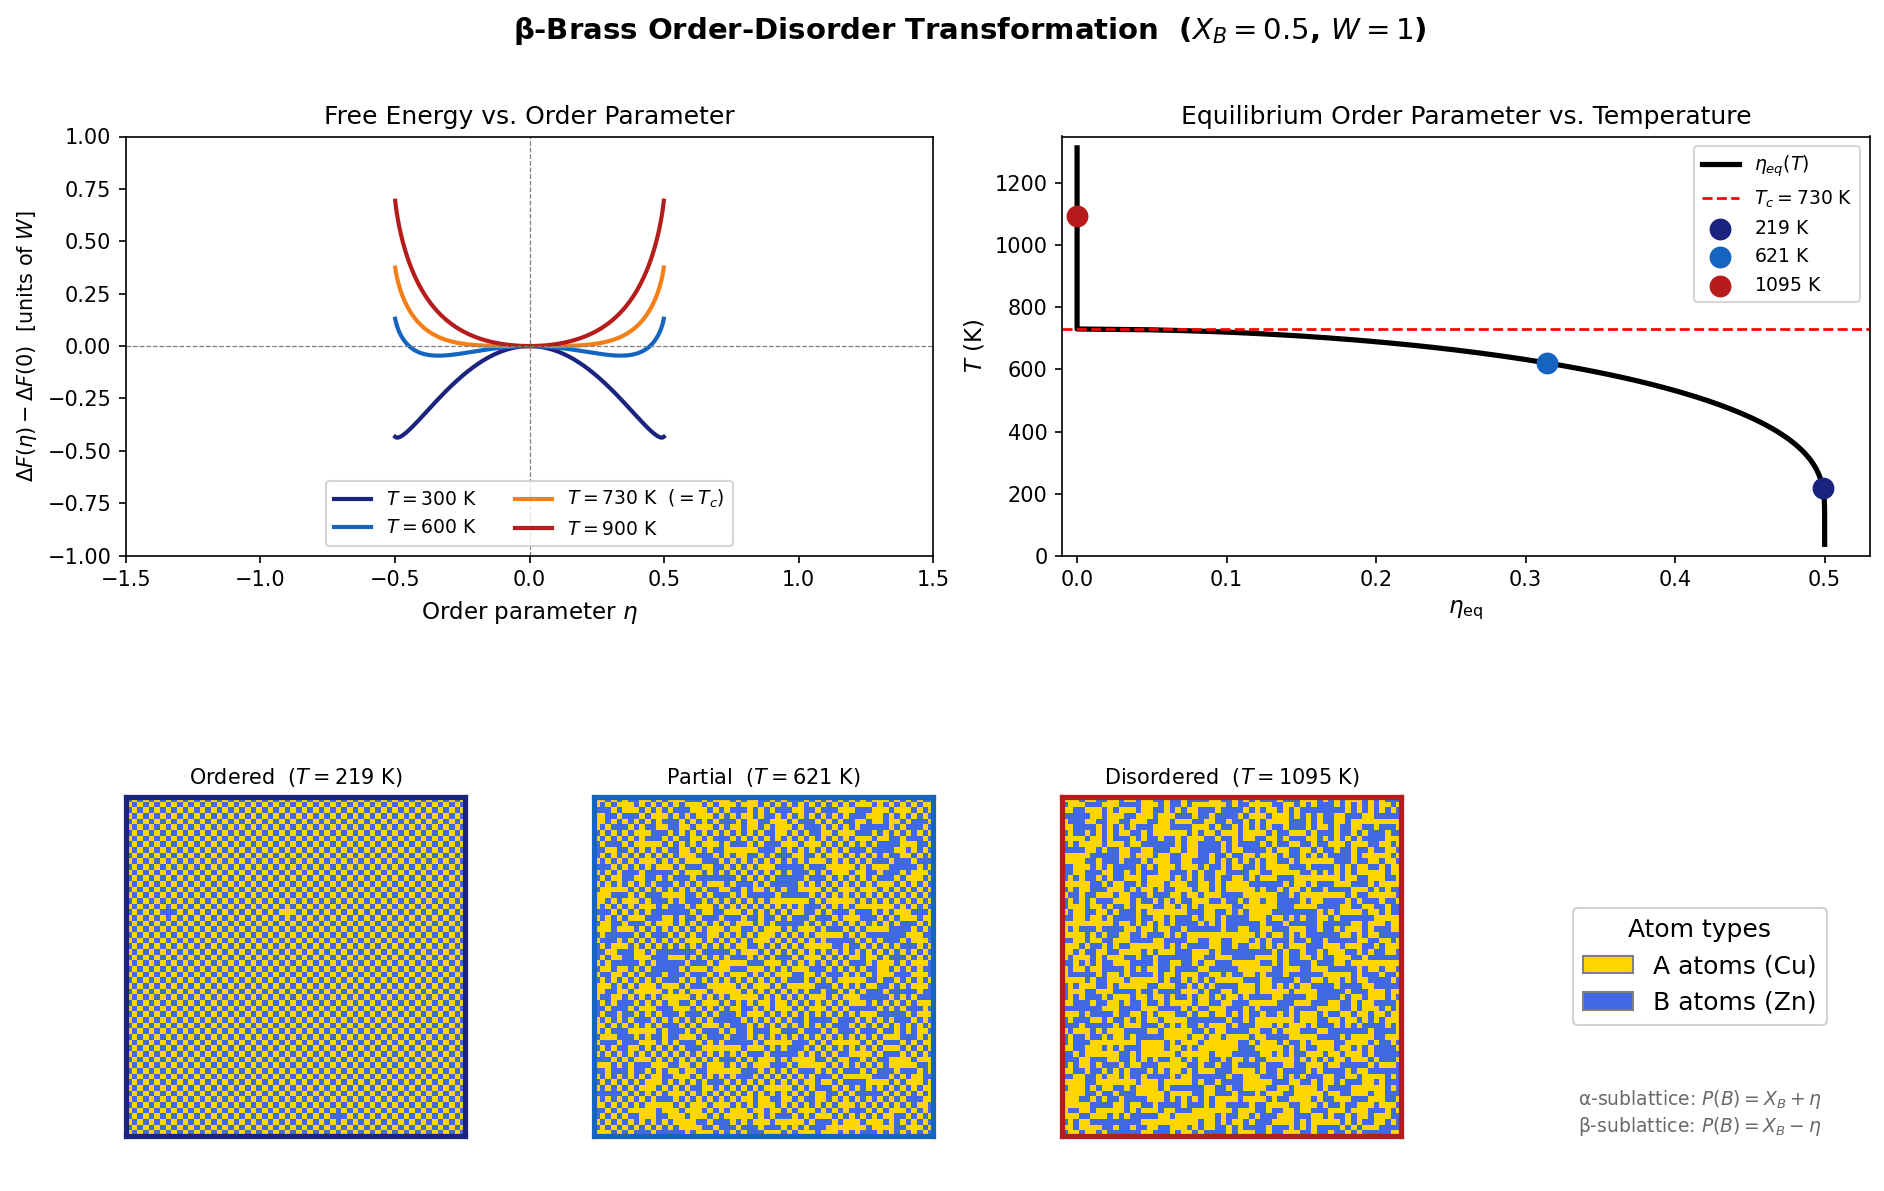
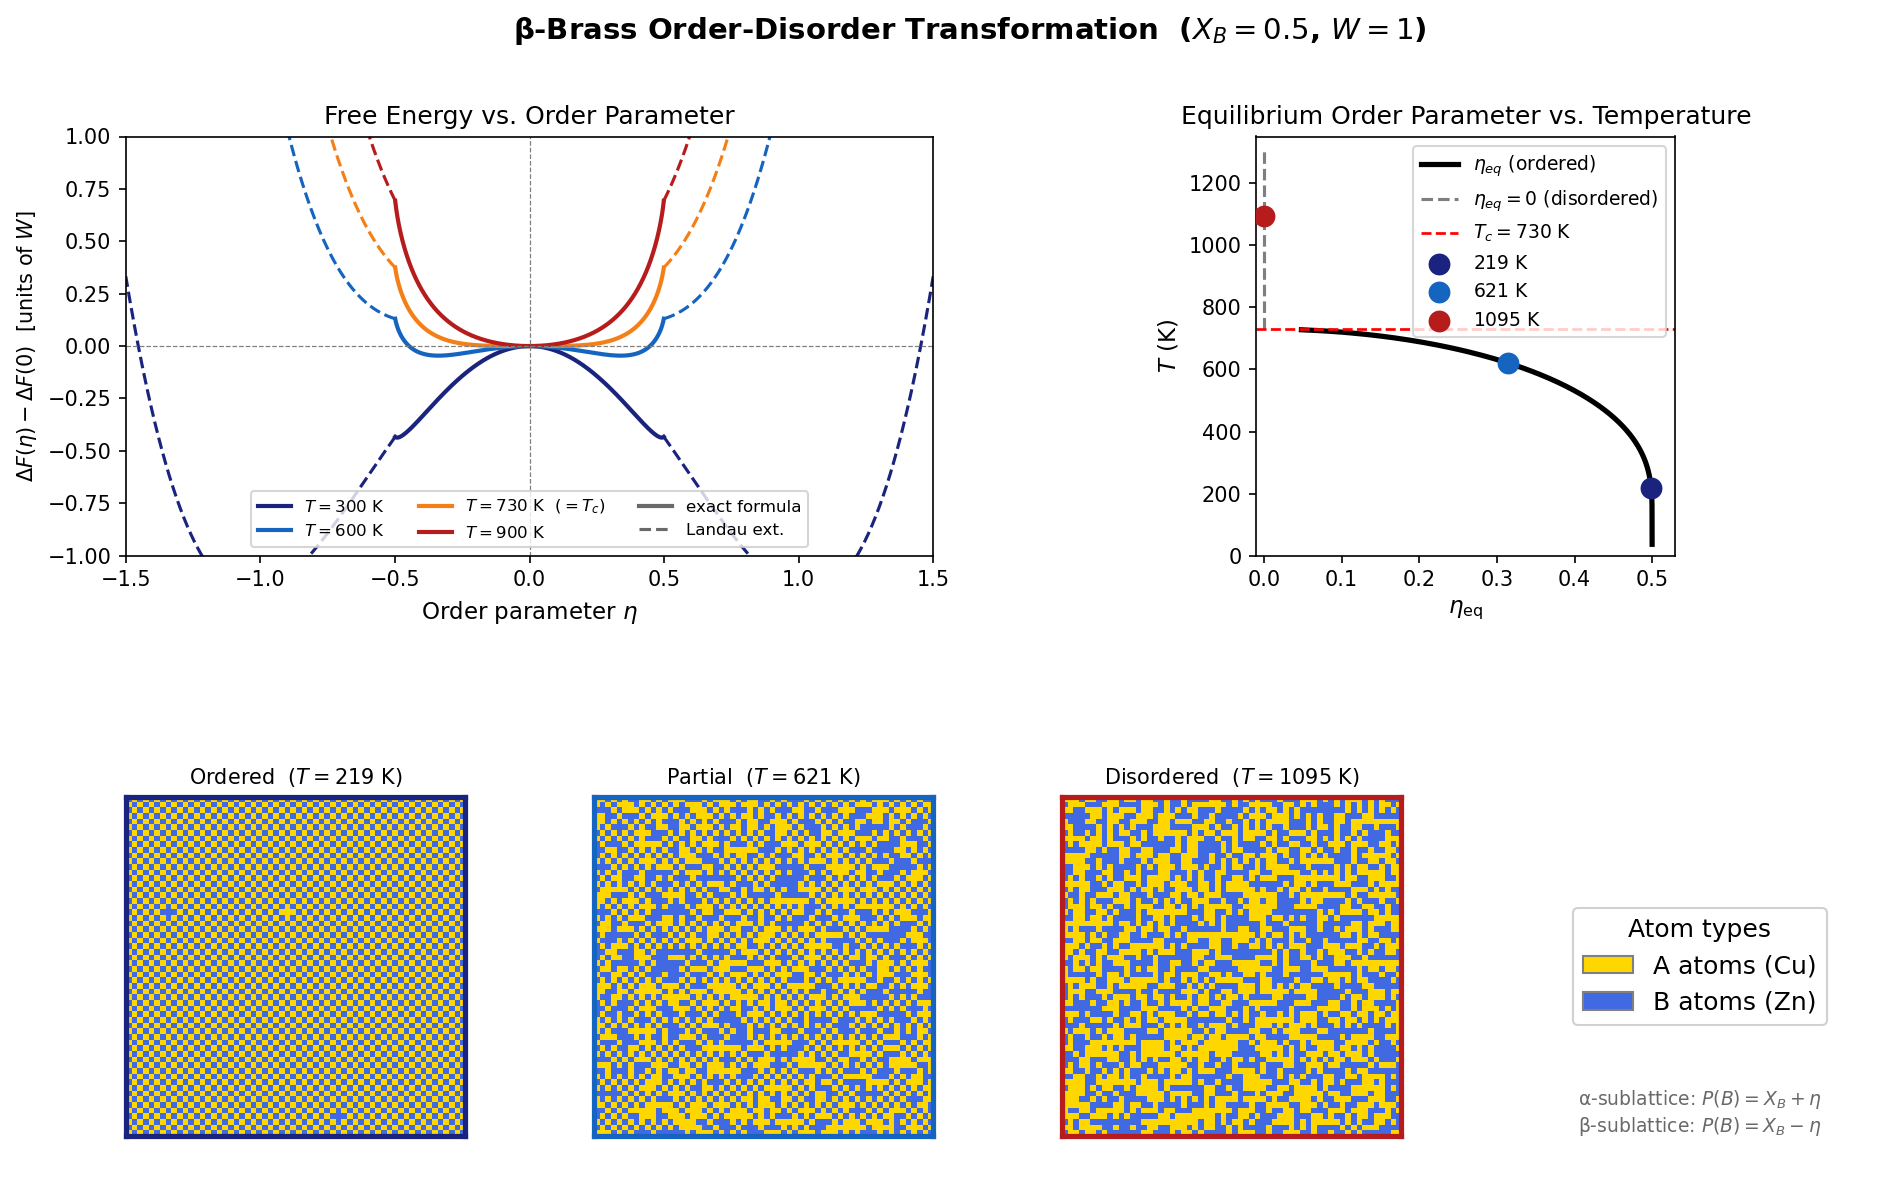
Add Landau extension to F(η) plot; clean up η_eq panel
- Panel 1: add 4th-order Landau continuation (dashed) beyond the physical
  |η|=0.5 boundary, offset to be continuous at the junction; this reveals
  the outer W humps that are inaccessible via the exact log formula
- Panel 2: separate ordered branch (solid) from disordered branch (dashed
  at η=0 for T>T_c); add set_box_aspect(1) to make the plot square
- Move Line2D import to top of file

diff --git a/order_disorder.py b/order_disorder.py
@@ -15,6 +15,7 @@ import numpy as np
 import matplotlib.pyplot as plt
 import matplotlib.gridspec as gridspec
 from matplotlib.colors import ListedColormap
+from matplotlib.lines import Line2D
 from matplotlib.patches import Patch
 from scipy.optimize import minimize_scalar
 
@@ -45,6 +46,14 @@ def eta_equilibrium(T):
     res = minimize_scalar(delta_F, bounds=(0.0, bound), method='bounded', args=(T,))
     # Accept ordered state only if it genuinely beats the disordered state
     return float(res.x) if res.fun < delta_F(0.0, T) - 1e-10 else 0.0
+
+def landau_F(eta, T):
+    """4th-order Landau polynomial, normalized to 0 at η=0.
+    Extends the free energy beyond the physical |η|≤X_B boundary where the
+    exact log formula is undefined. Valid near T_c; used only for |η|>0.499."""
+    a2 = 4 * (T - T_c)   # changes sign at T_c → drives ordering
+    a4 = 8 * T / 3        # always positive → stabilises at large η
+    return a2 * eta**2 + a4 * eta**4
 
 # ── 2D BCC sublattice snapshot ───────────────────────────────────────────────
 def make_lattice(eta, seed=42):
@@ -82,23 +91,47 @@ ax_leg = fig.add_subplot(gs[1, 3])
 
 # ── Panel 1: ΔF(η) − ΔF(0) vs η ─────────────────────────────────────────────
 eta_arr = np.linspace(-0.499, 0.499, 800)
+eta_ext = np.linspace(0.499, 1.5, 300)   # positive side; mirrored for negative
+
 for T, T_K, c in zip(T_curves, T_curves_K, colors):
-    F = np.array([delta_F(e, T) for e in eta_arr])
-    F -= delta_F(0.0, T)               # normalize to disordered reference
+    F_ref = delta_F(0.0, T)
+    F = np.array([delta_F(e, T) - F_ref for e in eta_arr])
     lbl = fr'$T = {T_K}$ K' + (r'  $(= T_c)$' if T_K == 730 else '')
     ax_F.plot(eta_arr, F, color=c, lw=2, label=lbl)
+
+    # Landau extension beyond the physical boundary: offset so curve is continuous at ±0.499
+    f_bnd  = delta_F(0.499, T) - F_ref       # exact value at physical boundary
+    offset = f_bnd - landau_F(0.499, T)      # shift Landau to match exact at boundary
+    F_ext  = landau_F(eta_ext, T) + offset
+    ax_F.plot( eta_ext,  F_ext, color=c, lw=1.5, ls='--')
+    ax_F.plot(-eta_ext,  F_ext, color=c, lw=1.5, ls='--')   # symmetric
 
 ax_F.axhline(0, color='gray', lw=0.6, ls='--')
 ax_F.axvline(0, color='gray', lw=0.6, ls='--')
 ax_F.set_xlabel(r'Order parameter $\eta$', fontsize=11)
 ax_F.set_ylabel(r'$\Delta F(\eta) - \Delta F(0)$  [units of $W$]', fontsize=10)
 ax_F.set_title('Free Energy vs. Order Parameter', fontsize=12)
-ax_F.legend(fontsize=9, loc='lower center', ncol=2)
+
+legend_handles, legend_labels = ax_F.get_legend_handles_labels()
+legend_handles += [
+    Line2D([0], [0], color='dimgray', lw=2,         label='exact formula'),
+    Line2D([0], [0], color='dimgray', lw=1.5, ls='--', label='Landau ext.'),
+]
+ax_F.legend(handles=legend_handles, fontsize=8, loc='lower center', ncol=3)
 ax_F.set_xlim(-1.5, 1.5)
 ax_F.set_ylim(-1.0, 1.0)
 
 # ── Panel 2: η_eq vs T ───────────────────────────────────────────────────────
-ax_eta.plot(eta_vals, T_sweep * T_c_K, 'k-', lw=2.5, label=r'$\eta_{eq}(T)$')
+# Ordered branch (T < T_c): solid curve where η_eq > 0
+ordered  = eta_vals > 1e-6
+ax_eta.plot(eta_vals[ordered], T_sweep[ordered] * T_c_K,
+            'k-', lw=2.5, label=r'$\eta_{eq}$ (ordered)')
+
+# Disordered branch (T > T_c): η_eq = 0, shown as dashed vertical segment
+T_dis = T_sweep[~ordered] * T_c_K
+ax_eta.plot(np.zeros_like(T_dis), T_dis, 'k--', lw=1.5, alpha=0.5,
+            label=r'$\eta_{eq} = 0$ (disordered)')
+
 ax_eta.axhline(T_c_K, color='red', lw=1.3, ls='--', label=fr'$T_c = {T_c_K}$ K')
 
 snap_colors = [colors[0], colors[1], colors[3]]
@@ -112,6 +145,7 @@ ax_eta.set_title('Equilibrium Order Parameter vs. Temperature', fontsize=12)
 ax_eta.legend(fontsize=9)
 ax_eta.set_xlim(-0.01, 0.53)
 ax_eta.set_ylim(0, 1.85 * T_c_K)
+ax_eta.set_box_aspect(1)
 
 # ── Panels 3-5: lattice snapshots ─────────────────────────────────────────────
 # Gold = Cu (A atoms, sublattice B when ordered), steel blue = Zn (B atoms)
